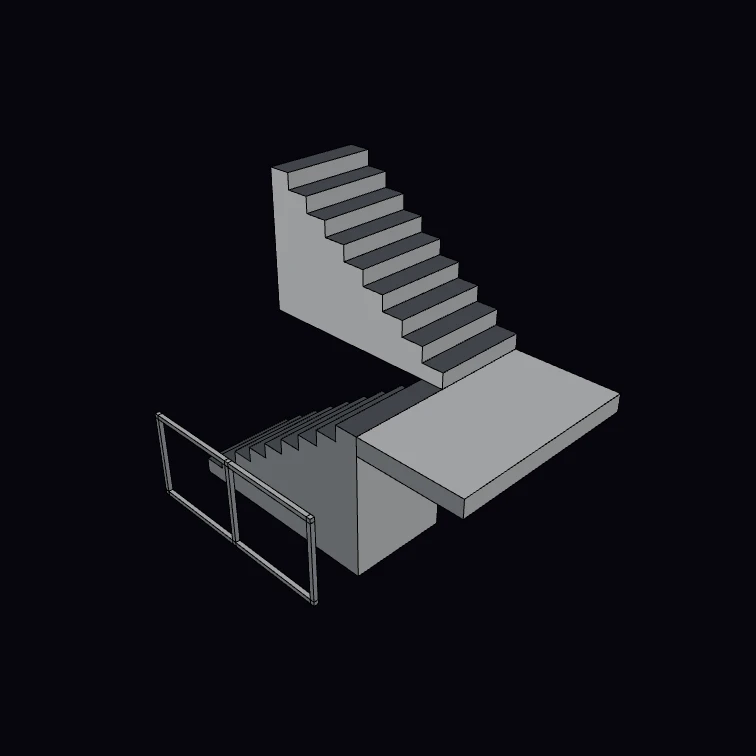
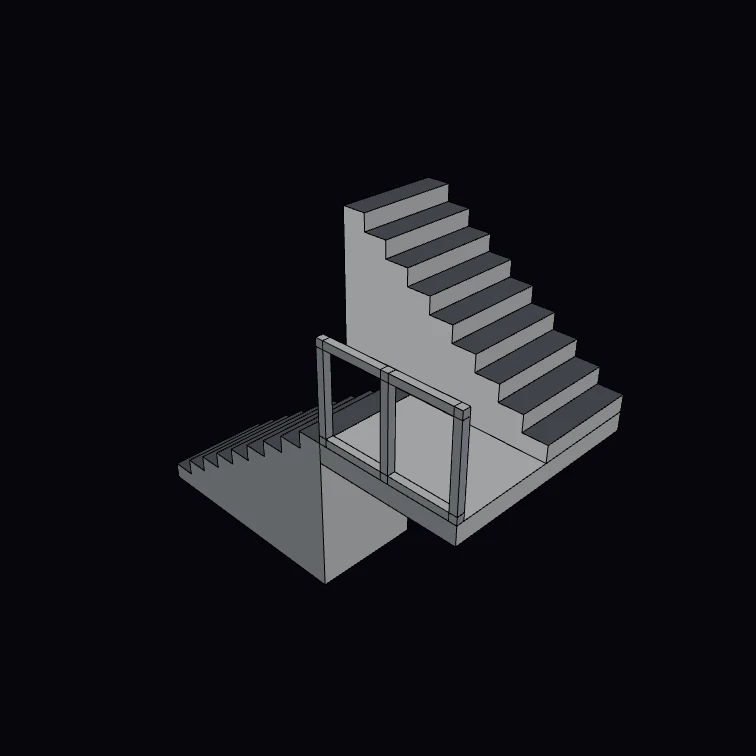
fix(playground): tune switchback stair so flights + landing mate cleanly
Flight 2 now starts at the landing's far edge (the landing connects the two
flights instead of jutting out past them), and the posted guardrail moves onto
the landing's open edge so it reads as a balustrade rather than a detached base
fence. Re-shot the thumbnail.

Changed region(s): [[0.1825, 0.1825, 0.8214, 0.8214]]

diff --git a/apps/playground/src/lib/examples/bim.ts b/apps/playground/src/lib/examples/bim.ts
@@ -298,25 +298,25 @@ model.aggregate(site, building);
 model.aggregate(building, storey);
 
 const RISERS = 9, RH = 175, TL = 260, WIDTH = 1100;
-const runLen = RISERS * TL, rise = RISERS * RH;
+const runLen = RISERS * TL, rise = RISERS * RH, LANDING_D = 1500;
 const flightCommon = { width: WIDTH, riserHeight: RH, treadLength: TL, numberOfRisers: RISERS, axisZ: [0, 0, 1] as [number, number, number], materialName: 'Concrete' };
 const stair = model.addStair({
   name: 'Stair',
   predefinedType: 'HALF_TURN_STAIR',
   flights: [
     { ...flightCommon, origin: [0, 0, 0], axisX: [1, 0, 0] },
-    { ...flightCommon, origin: [runLen, WIDTH * 2, rise], axisX: [-1, 0, 0] },
+    { ...flightCommon, origin: [runLen + LANDING_D, WIDTH * 2, rise], axisX: [-1, 0, 0] },
   ],
   materialName: 'Concrete',
 });
 if (!stair.ok) throw stair.error;
 model.placeIn(stair.value, storey);
 
-const landing = model.addSlab({ length: 1200, width: WIDTH * 2, thickness: 200, origin: [runLen, 0, rise - 200], axisX: [1, 0, 0], axisZ: [0, 0, 1], predefinedType: 'LANDING', materialName: 'Concrete' });
+const landing = model.addSlab({ length: LANDING_D, width: WIDTH * 2, thickness: 200, origin: [runLen, 0, rise - 200], axisX: [1, 0, 0], axisZ: [0, 0, 1], predefinedType: 'LANDING', materialName: 'Concrete' });
 if (!landing.ok) throw landing.error;
 model.placeIn(landing.value, storey);
 
-const rail = model.addRailing({ length: runLen, height: 1000, thickness: 50, origin: [0, -WIDTH / 2, 0], axisX: [1, 0, 0], axisZ: [0, 0, 1], predefinedType: 'GUARDRAIL', infill: 'POSTED', materialName: 'Steel' });
+const rail = model.addRailing({ length: LANDING_D, height: 1000, thickness: 80, origin: [runLen, 0, rise], axisX: [1, 0, 0], axisZ: [0, 0, 1], predefinedType: 'GUARDRAIL', infill: 'POSTED', materialName: 'Steel' });
 if (!rail.ok) throw rail.error;
 model.placeIn(rail.value, storey);
 
